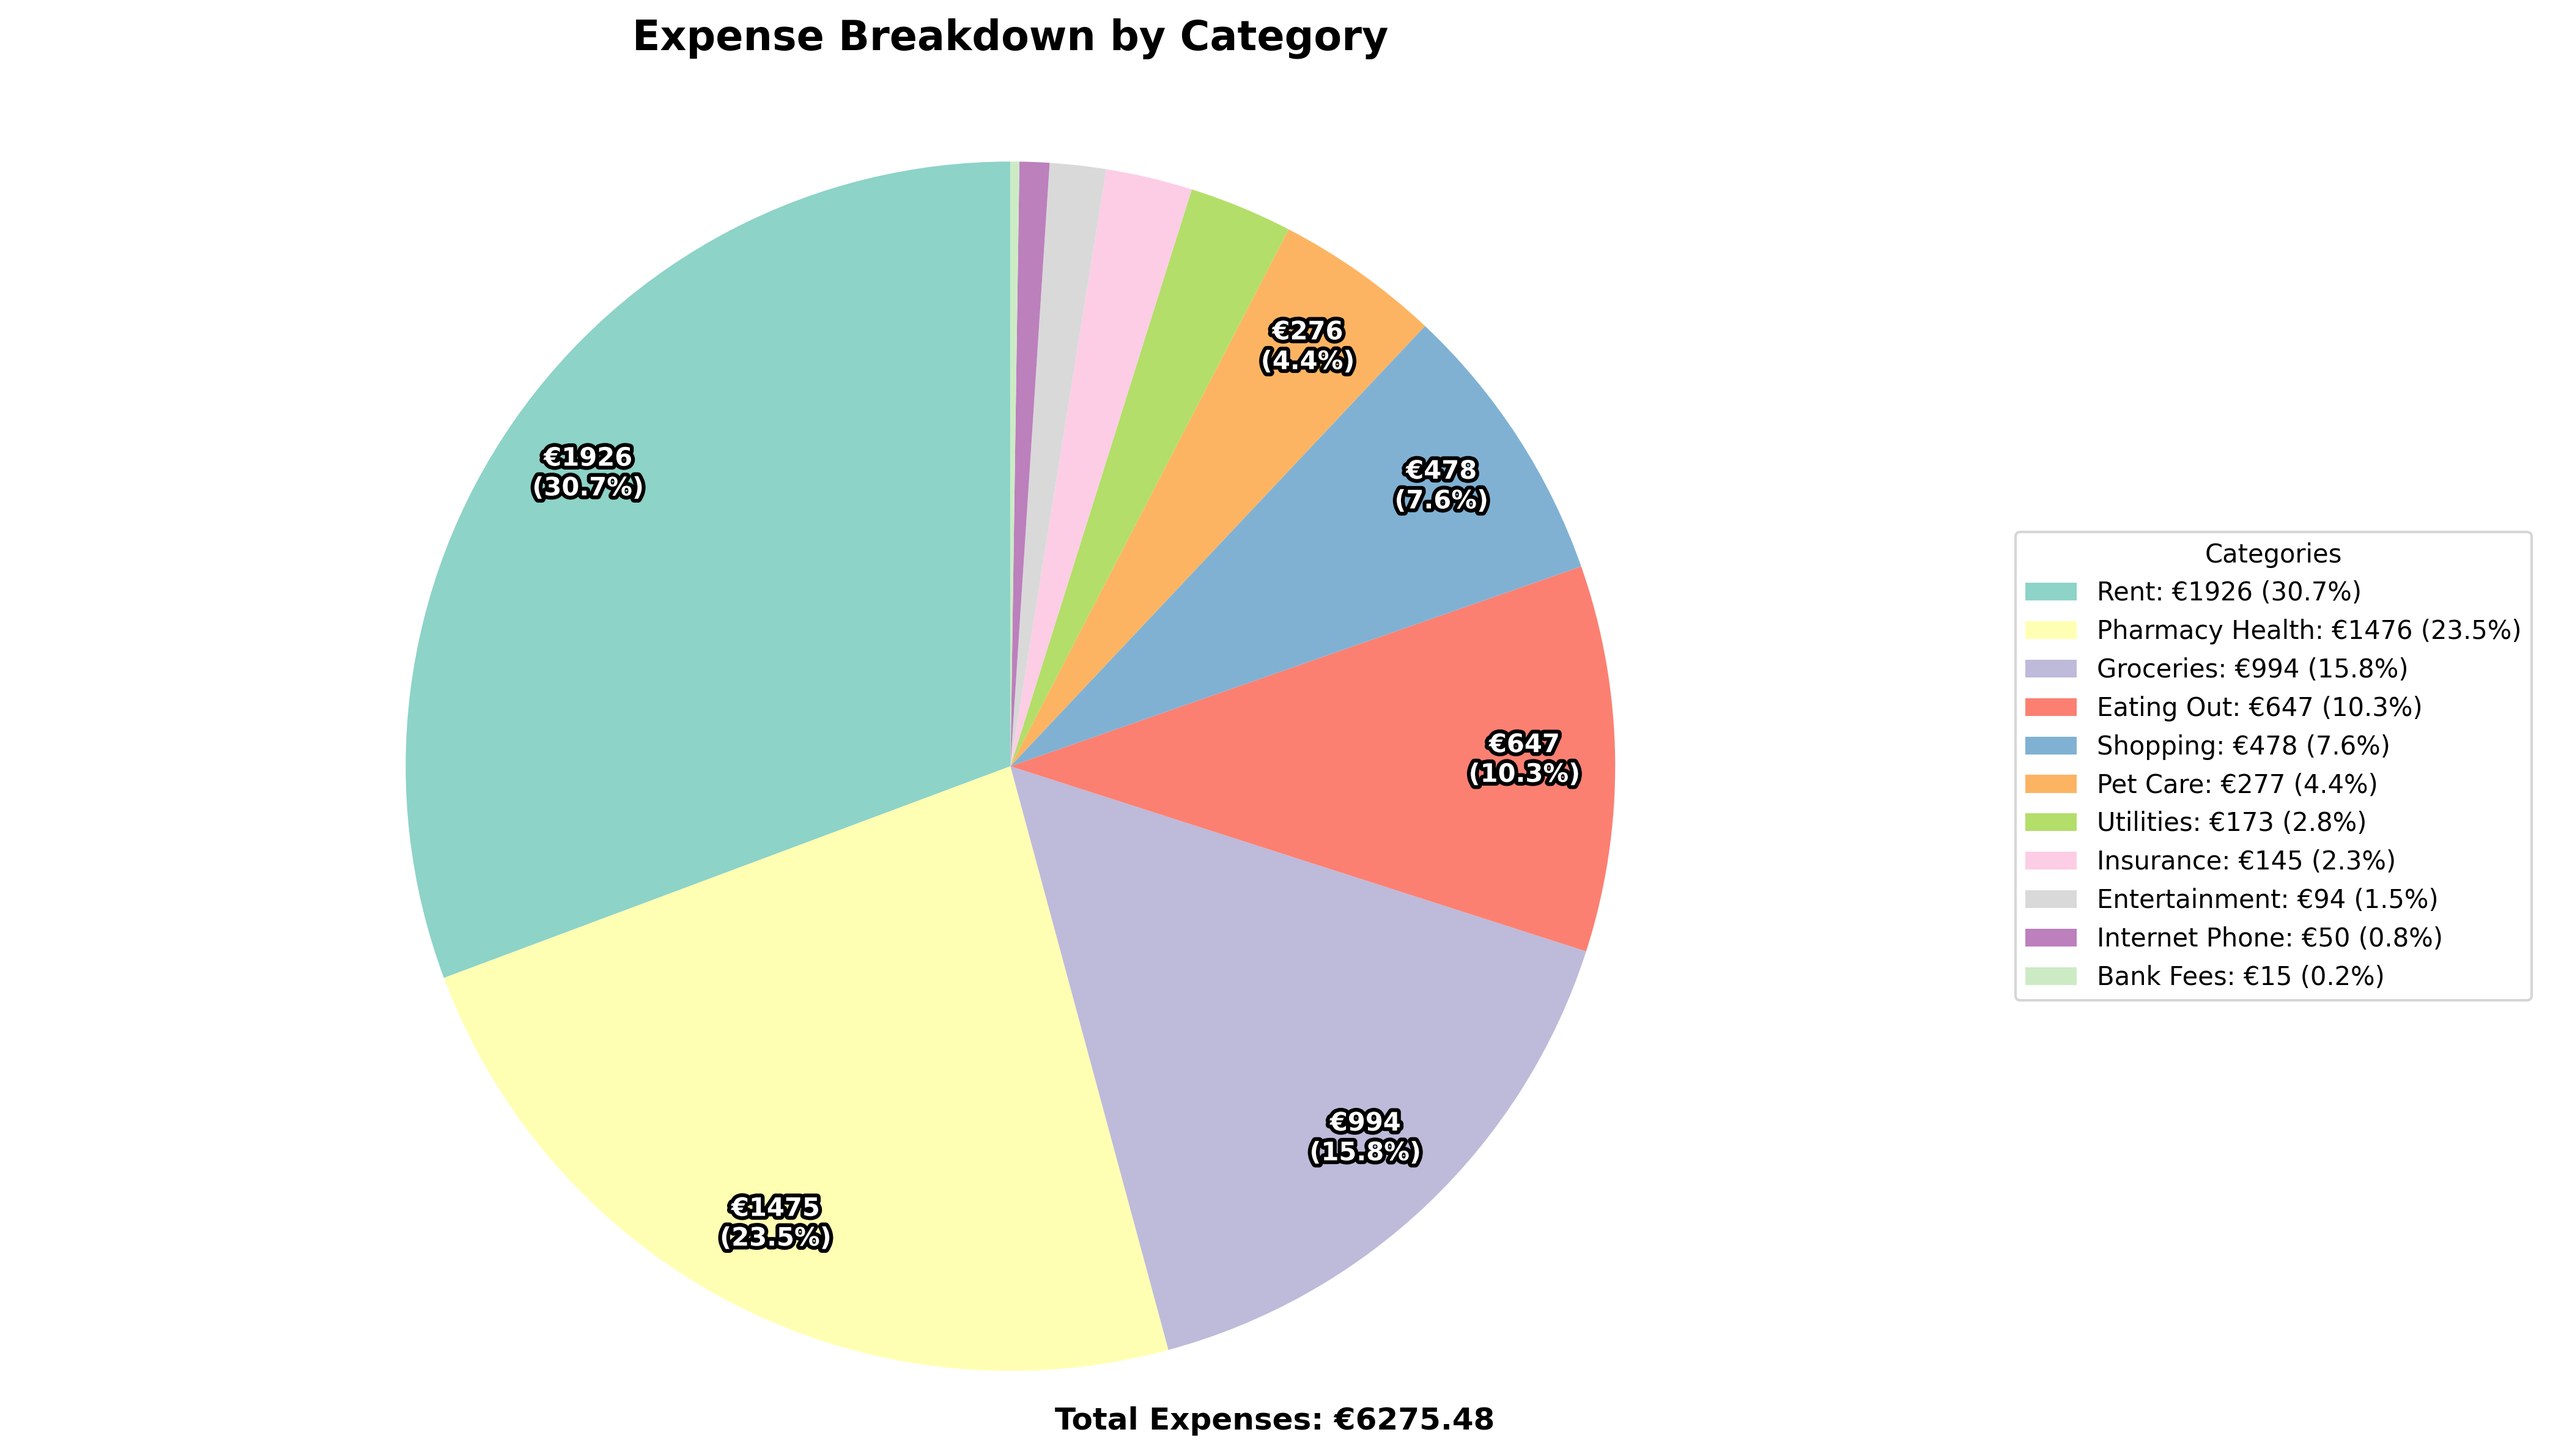
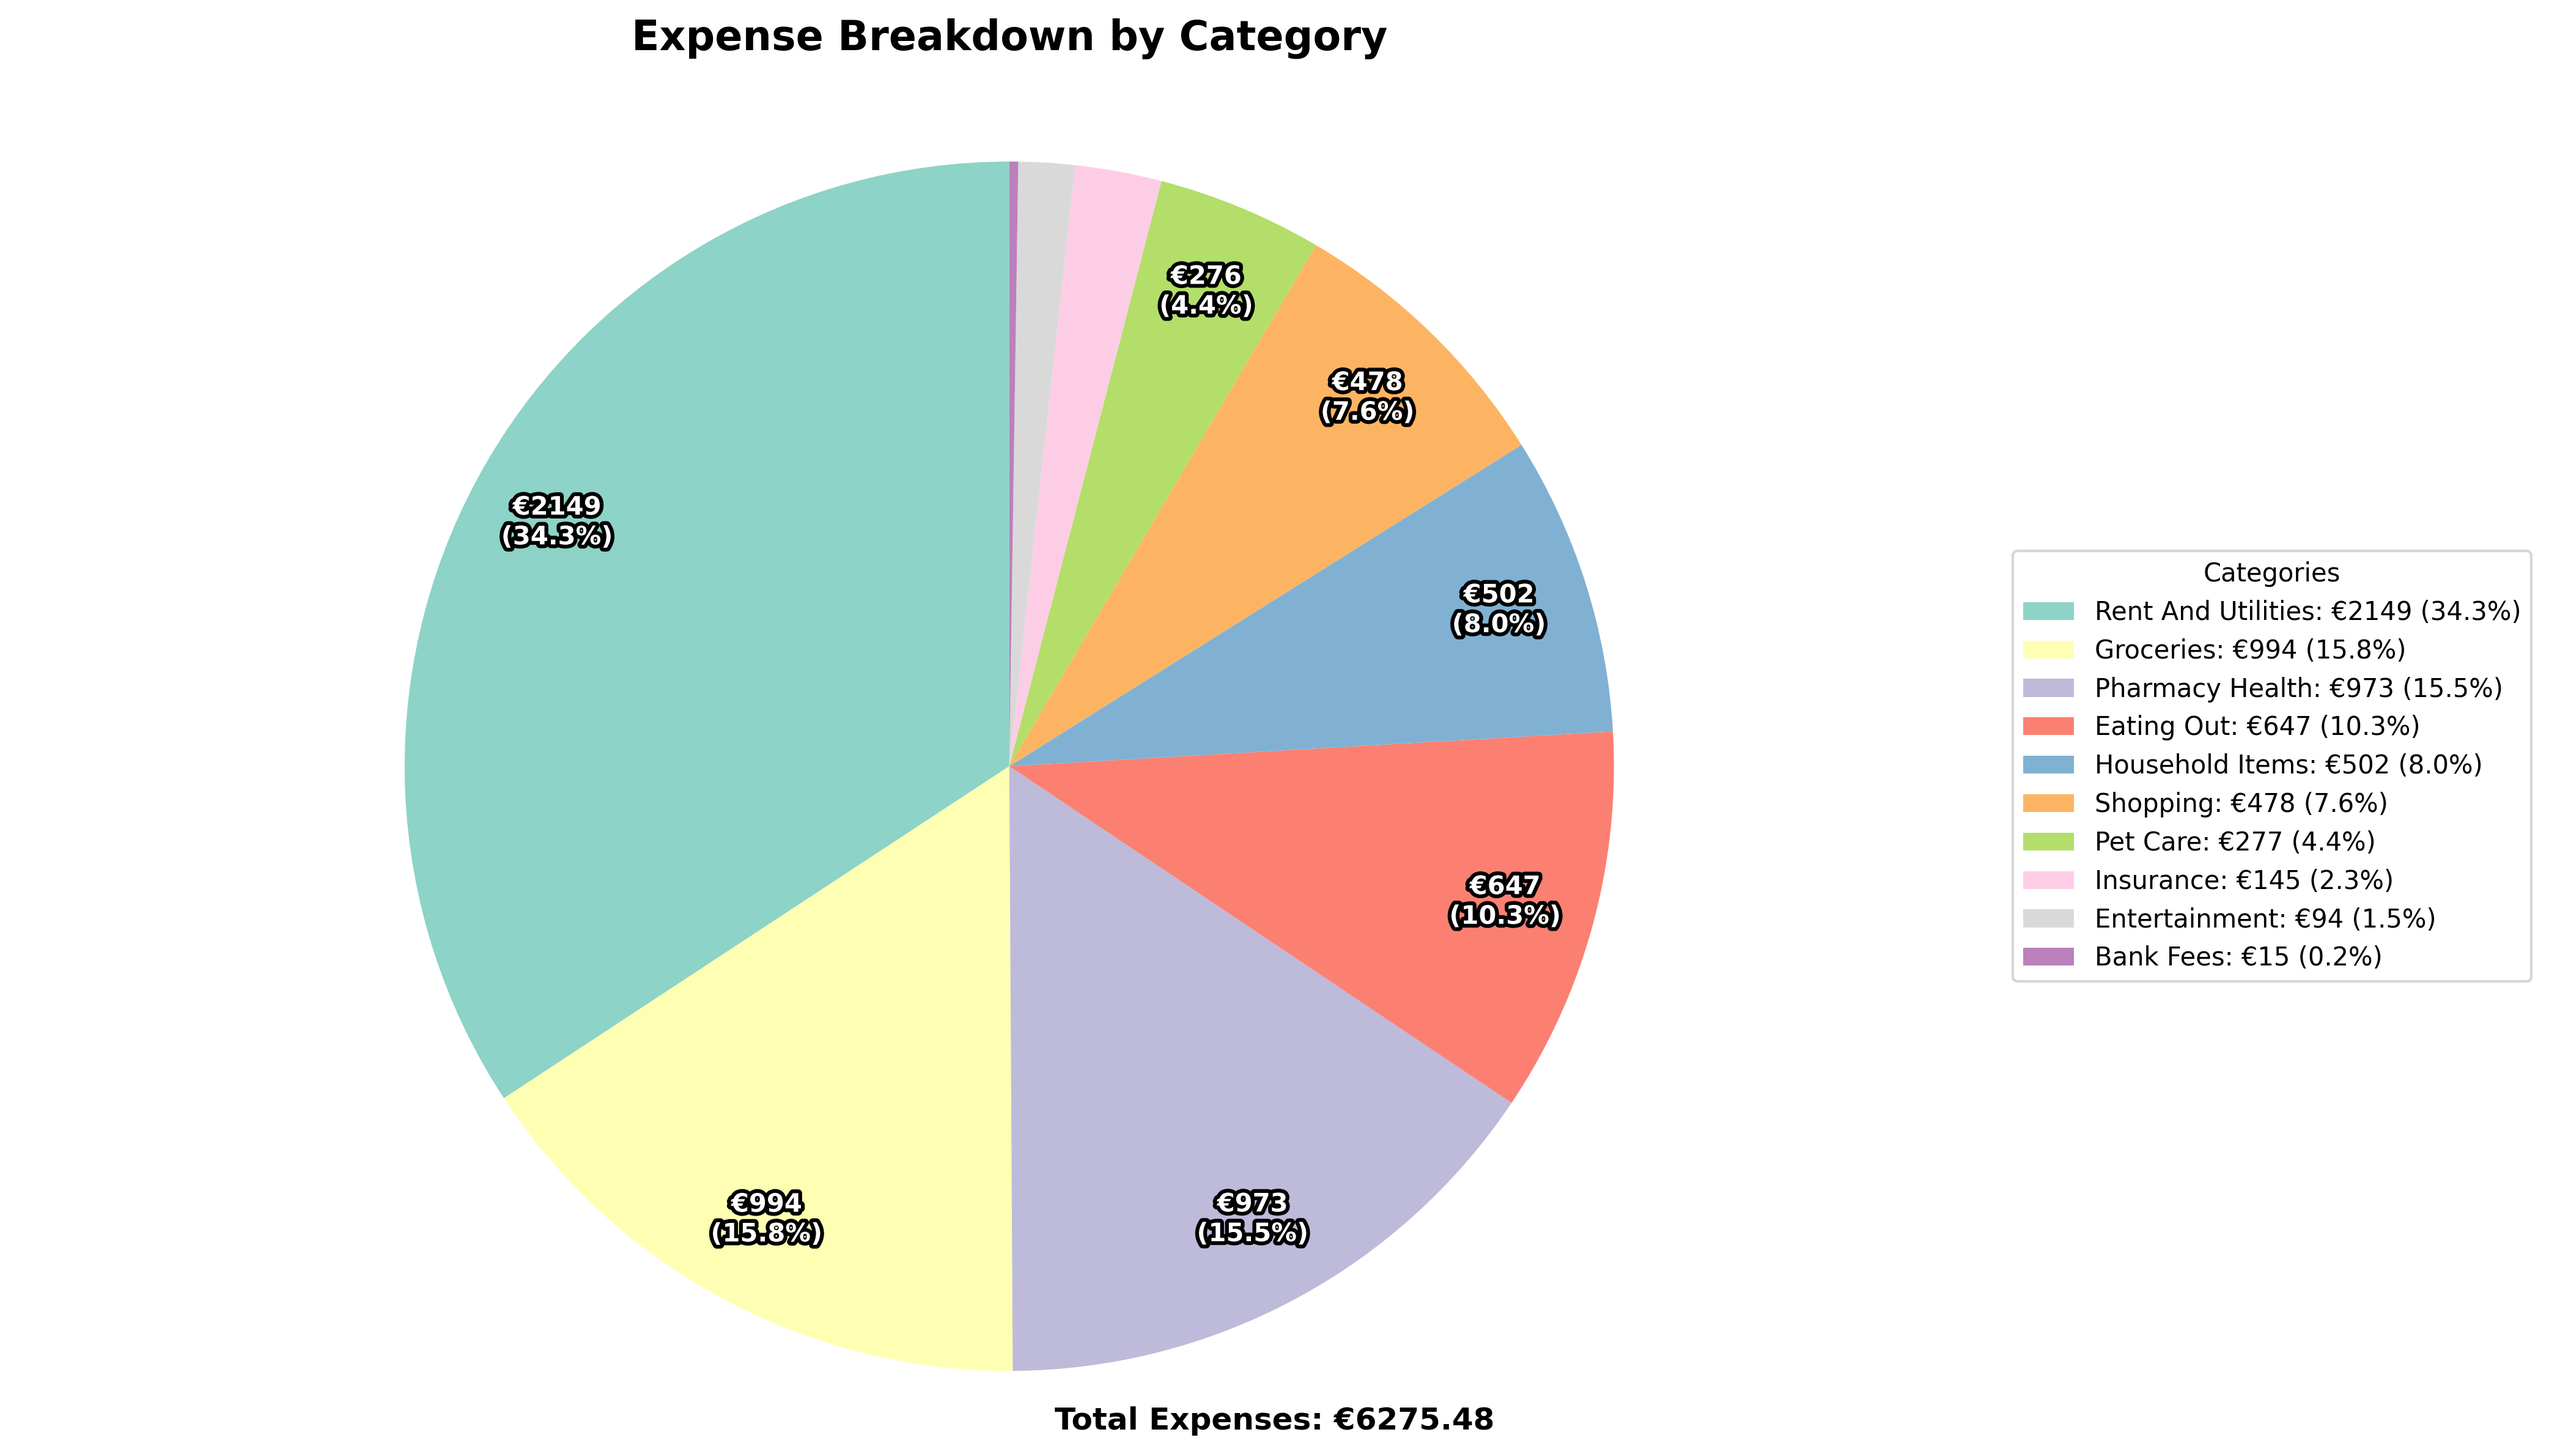
only include negative amounts, rearrange categories

diff --git a/expense_analyzer.py b/expense_analyzer.py
@@ -30,18 +30,17 @@ class ExpenseAnalyzer:
                 "mcdonalds", "kfc", "subway", "asia", "doner", "döner", "cafe",
                 "bar", "pub", "borgor", "brgrs", "salami social"
             ],
+            "household_items": [
+                "dm drogerie", "rossmann"
+            ],
             "pharmacy_health": [
-                "dm drogerie", "rossmann", "apotheke", "pharmacy", "arzt", "doctor",
+                "apotheke", "pharmacy", "arzt", "doctor",
                 "kranken", "health", "medical", "blanka leeker", "techniker krankenkasse"
             ],
-            "rent": [
-                "miete", "rent", "wohnung", "apartment", "sev petten"
-            ],
-            "utilities": [
+            "rent_and_utilities": [
+                "miete", "rent", "wohnung", "apartment", "sev petten",
                 "vattenfall", "strom", "gas", "water", "wasser", "heating", "heizung",
-                "electricity", "energie"
-            ],
-            "internet_phone": [
+                "electricity", "energie",
                 "telekom", "vodafone", "o2", "internet", "telefon", "phone", "mobile",
                 "1+1 telecom"
             ],
@@ -66,10 +65,6 @@ class ExpenseAnalyzer:
             "bank_fees": [
                 "entgeltabschluss", "gebühr", "fee", "bank charge", "commission"
             ],
-            "income": [
-                "gutschrift", "gehalt", "salary", "lohn", "wise", 
-                "income", "transfer"
-            ]
         }
 
     def read_csv_files(self):
@@ -114,7 +109,7 @@ class ExpenseAnalyzer:
                     'raw_row': row
                 }
                 
-                if transaction['amount'] != 0:  # Skip zero amounts
+                if transaction['amount'] < 0:  # Skip zero and positive amounts
                     self.transactions.append(transaction)
 
     def parse_amount(self, amount_str):
